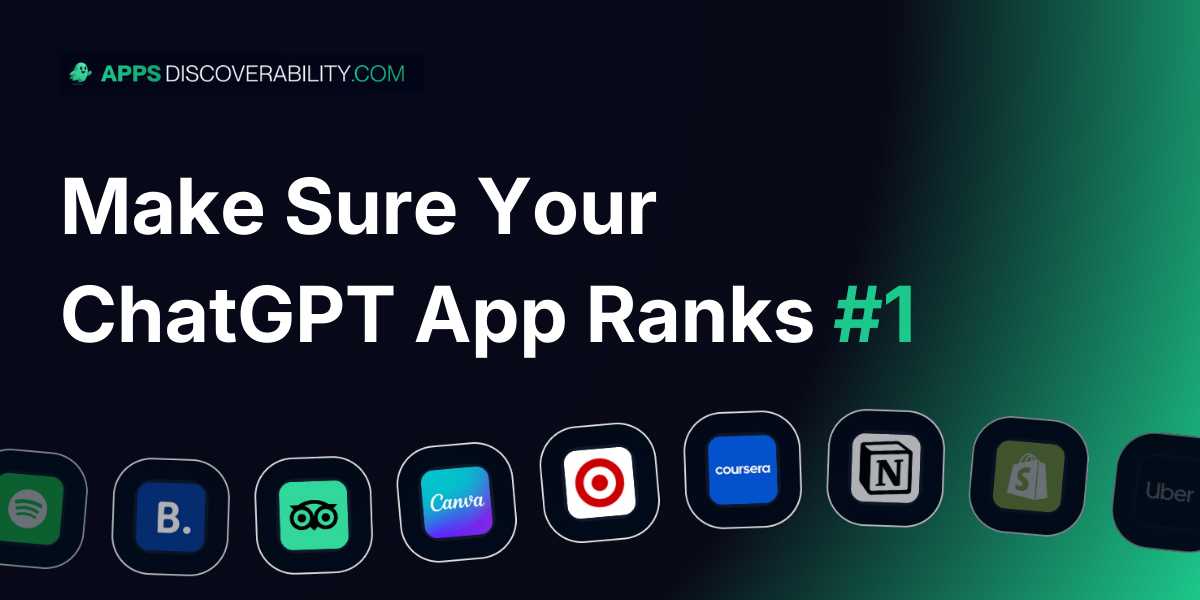
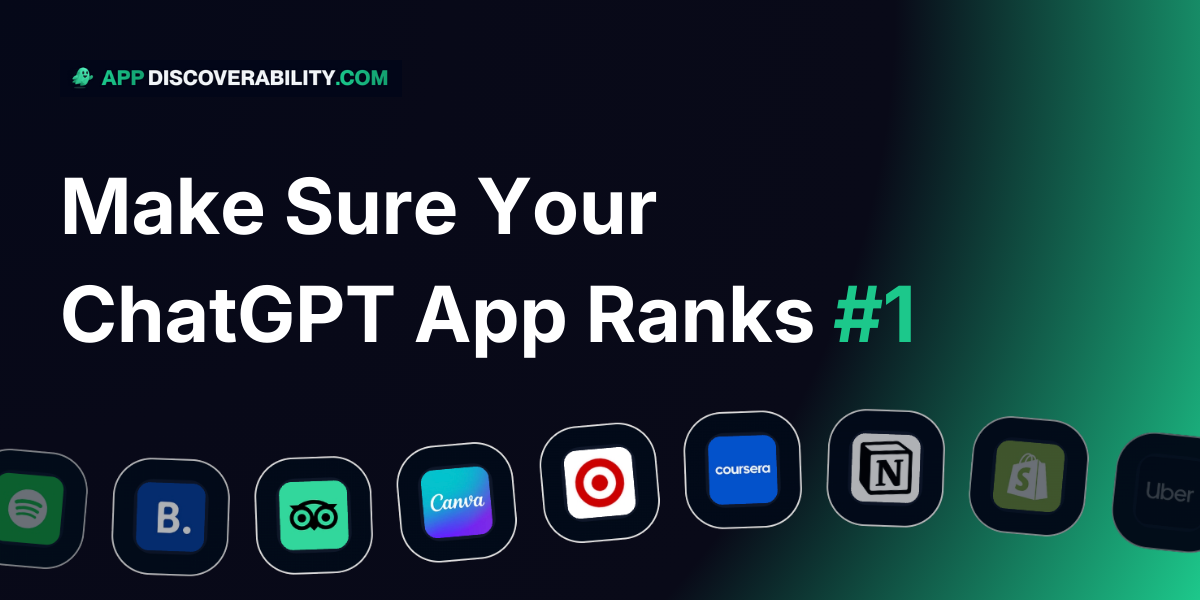
update appdiscoverability

Changed region(s): [[0.0617, 0.09, 0.3392, 0.15]]

diff --git a/app/layout.tsx b/app/layout.tsx
@@ -12,7 +12,7 @@ const GA_MEASUREMENT_ID = "G-BVX33VY3NJ";
 
 
 export const metadata: Metadata = {
-  title: "Appsdiscoverability.com - ChatGPT App Discoverability",
+  title: "Appdiscoverability.com - ChatGPT App Discoverability",
   description: "Make Sure Your ChatGPT App Ranks #1. 850 million weekly users. We'll show you exactly where you rank—and help you climb to #1.",
   icons: {
     icon: "/ghosts/speedyghost.png",
@@ -20,21 +20,21 @@ export const metadata: Metadata = {
     apple: "/ghosts/speedyghost.png",
   },
   openGraph: {
-    title: "Appsdiscoverability.com - ChatGPT App Discoverability",
+    title: "Appdiscoverability.com - ChatGPT App Discoverability",
     description: "Make Sure Your ChatGPT App Ranks #1. 850 million weekly users. We'll show you exactly where you rank—and help you climb to #1.",
     images: [
       {
         url: '/images/OGshare.png',
         width: 1200,
         height: 630,
-        alt: 'Appsdiscoverability.com - ChatGPT App Discoverability',
+        alt: 'Appdiscoverability.com - ChatGPT App Discoverability',
       },
     ],
     type: 'website',
   },
   twitter: {
     card: 'summary_large_image',
-    title: "Appsdiscoverability.com - ChatGPT App Discoverability",
+    title: "Appdiscoverability.com - ChatGPT App Discoverability",
     description: "Make Sure Your ChatGPT App Ranks #1. 850 million weekly users. We'll show you exactly where you rank—and help you climb to #1.",
     images: ['/images/OGshare.png'],
   },

diff --git a/components/home/LongFormContent.tsx b/components/home/LongFormContent.tsx
@@ -32,7 +32,7 @@ export function LongFormContent() {
           </p>
 
           <p className="text-lg md:text-xl text-gray-700 leading-relaxed">
-            That's why we're building Appsdiscoverability.com. We track where your app ranks across both the store and organic recommendations. We show you which keywords and prompts your competitors are winning. And we give you specific actions to climb - so you're not just building a great app, but making sure it gets found.
+            That's why we're building Appdiscoverability.com. We track where your app ranks across both the store and organic recommendations. We show you which keywords and prompts your competitors are winning. And we give you specific actions to climb - so you're not just building a great app, but making sure it gets found.
           </p>
         </div>
       </div>

diff --git a/components/home/ScrollContent.tsx b/components/home/ScrollContent.tsx
@@ -86,7 +86,7 @@ function Content() {
       </p>
 
       <p className="text-2xl leading-relaxed max-w-xl mx-auto">
-        That's why we're building <span className="font-bold text-[rgb(27,200,140)]">Appsdiscoverability.com</span>. We track store search and organic recommendations - for you and your competitors. We show you where you're winning, where you're losing, and what it takes to climb. Then we help you get to #1.
+        That's why we're building <span className="font-bold text-[rgb(27,200,140)]">Appdiscoverability.com</span>. We track store search and organic recommendations - for you and your competitors. We show you where you're winning, where you're losing, and what it takes to climb. Then we help you get to #1.
       </p>
     </article>
   );

diff --git a/components/Footer.tsx b/components/Footer.tsx
@@ -57,7 +57,7 @@ export function Footer() {
           {/* Brand Section - Left */}
           <div>
             <h3 className="text-xl font-normal mb-4 flex items-center gap-1.5">
-              <span className="font-bold uppercase bg-gradient-to-r from-[rgb(27,200,140)] to-[rgb(20,160,112)] bg-clip-text text-transparent">APPS</span>
+              <span className="font-bold uppercase bg-gradient-to-r from-[rgb(27,200,140)] to-[rgb(20,160,112)] bg-clip-text text-transparent">APP</span>
               <span className="font-bold uppercase text-slate-900">Discoverability</span>
               <span className="font-bold uppercase bg-gradient-to-r from-[rgb(27,200,140)] to-[rgb(20,160,112)] bg-clip-text text-transparent">.COM</span>
             </h3>

diff --git a/app/begin/page.tsx b/app/begin/page.tsx
@@ -1,8 +1,8 @@
 import Script from "next/script";
 
 export const metadata = {
-  title: "Join the Waitlist - Appsdiscoverability.com",
-  description: "Be the first to know when Appsdiscoverability.com launches. Join our waitlist today.",
+  title: "Join the Waitlist - Appdiscoverability.com",
+  description: "Be the first to know when Appdiscoverability.com launches. Join our waitlist today.",
 };
 
 export default function BeginPage() {
@@ -28,7 +28,7 @@ export default function BeginPage() {
             frameBorder="0" 
             marginHeight={0} 
             marginWidth={0} 
-            title="appsdiscoverability waitlist"
+            title="appdiscoverability waitlist"
           />
         </div>
       </div>

diff --git a/app/book-a-call/page.tsx b/app/book-a-call/page.tsx
@@ -1,8 +1,8 @@
 import Script from "next/script";
 
 export const metadata = {
-  title: "Book a Demo - Appsdiscoverability.com",
-  description: "Schedule a demo to see how Appsdiscoverability.com can help your ChatGPT app rank #1.",
+  title: "Book a Demo - Appdiscoverability.com",
+  description: "Schedule a demo to see how Appdiscoverability.com can help your ChatGPT app rank #1.",
 };
 
 export default function BookACallPage() {
@@ -28,7 +28,7 @@ export default function BookACallPage() {
             frameBorder="0" 
             marginHeight={0} 
             marginWidth={0} 
-            title="appsdiscoverability waitlist"
+            title="appdiscoverability waitlist"
           />
         </div>
       </div>

diff --git a/components/Navbar.tsx b/components/Navbar.tsx
@@ -24,7 +24,7 @@ export function Navbar() {
             />
           </div>
           <span className="flex items-center">
-            <span className="font-bold uppercase bg-gradient-to-r from-[rgb(27,200,140)] to-[rgb(20,160,112)] bg-clip-text text-transparent mr-1">APPS</span>
+            <span className="font-bold uppercase bg-gradient-to-r from-[rgb(27,200,140)] to-[rgb(20,160,112)] bg-clip-text text-transparent mr-1">APP</span>
             <span className="font-bold uppercase">DISCOVERABILITY</span>
             <span className="font-bold uppercase bg-gradient-to-r from-[rgb(27,200,140)] to-[rgb(20,160,112)] bg-clip-text text-transparent">.COM</span>
           </span>

diff --git a/app/guide/page.tsx b/app/guide/page.tsx
@@ -3,7 +3,7 @@ import { ArrowLeft } from "lucide-react";
 import { ContentScroll, ScrollSection } from "@/components/ui/content-scroll";
 
 export const metadata = {
-  title: "The Complete Guide to ChatGPT App Discoverability - Appsdiscoverability.com",
+  title: "The Complete Guide to ChatGPT App Discoverability - Appdiscoverability.com",
   description: "A practical playbook for getting your ChatGPT app found—grounded in official documentation and real-world testing.",
 };
 

diff --git a/app/page.tsx b/app/page.tsx
@@ -5,7 +5,7 @@ import { ResourcesSection } from "../components/home/ResourcesSection";
 import { CTASection } from "../components/home/CTASection";
 
 export const metadata = {
-  title: "Appsdiscoverability.com - ChatGPT App Discoverability",
+  title: "Appdiscoverability.com - ChatGPT App Discoverability",
   description: "Make Sure Your ChatGPT App Ranks #1. 850 million weekly users. We'll show you exactly where you rank—and help you climb to #1.",
 };
 

diff --git a/app/waitlist/page.tsx b/app/waitlist/page.tsx
@@ -1,8 +1,8 @@
 import Script from "next/script";
 
 export const metadata = {
-  title: "Join the Waitlist - Appsdiscoverability.com",
-  description: "Be the first to know when Appsdiscoverability.com launches. Join our waitlist today.",
+  title: "Join the Waitlist - Appdiscoverability.com",
+  description: "Be the first to know when Appdiscoverability.com launches. Join our waitlist today.",
 };
 
 export default function WaitlistPage() {

diff --git a/app/terms-of-service/page.tsx b/app/terms-of-service/page.tsx
@@ -3,7 +3,7 @@ import { ArrowLeft } from "lucide-react";
 import { ContentScroll, ScrollSection } from "@/components/ui/content-scroll";
 
 export const metadata = {
-  title: "Terms of Service - Appsdiscoverability.com",
+  title: "Terms of Service - Appdiscoverability.com",
   description: "Read our Terms of Service. Last updated: December 30, 2025",
 };
 

diff --git a/app/privacy-policy/page.tsx b/app/privacy-policy/page.tsx
@@ -3,7 +3,7 @@ import { ArrowLeft } from "lucide-react";
 import { ContentScroll, ScrollSection } from "@/components/ui/content-scroll";
 
 export const metadata = {
-  title: "Privacy Policy - Appsdiscoverability.com",
+  title: "Privacy Policy - Appdiscoverability.com",
   description: "Read our Privacy Policy. Last updated: December 30, 2025",
 };
 
